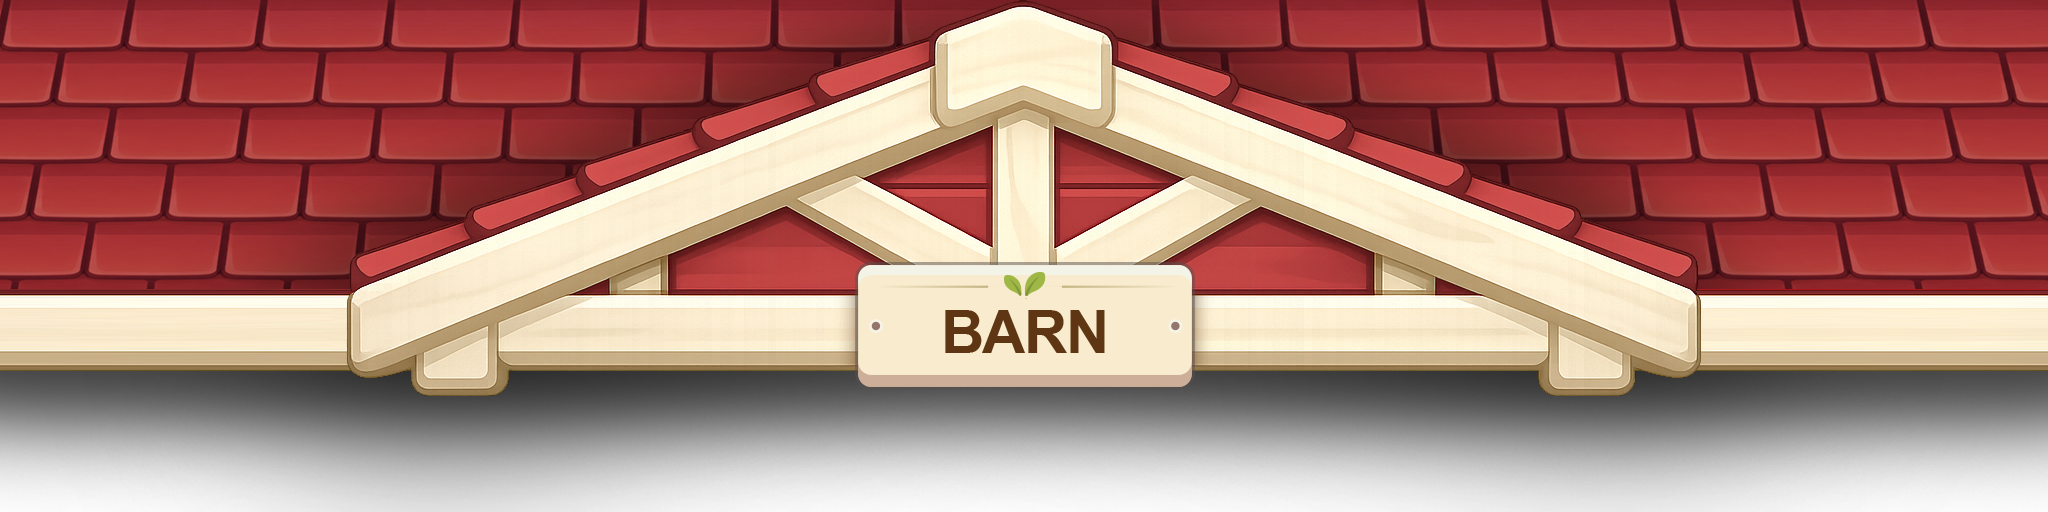
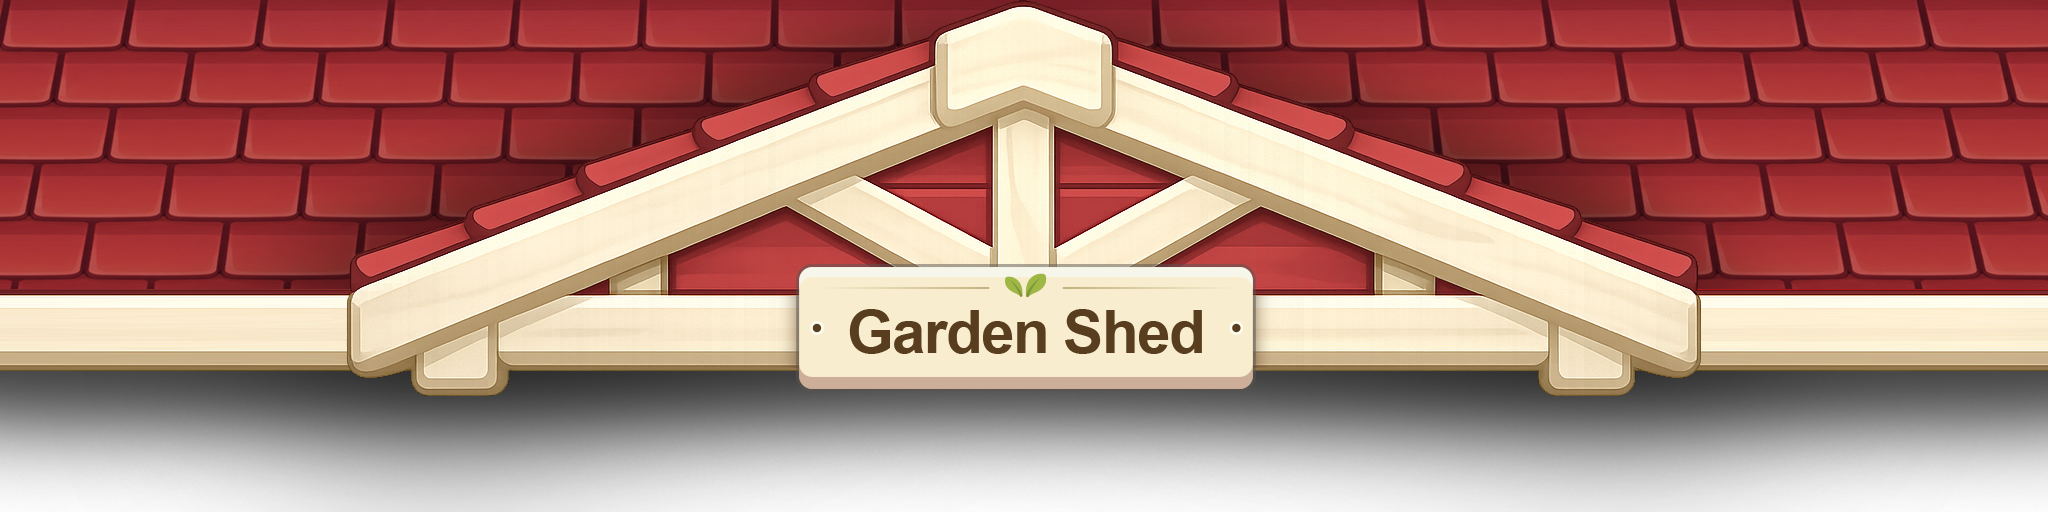
small tweaks

Changed region(s): [[0.375, 0.5, 0.625, 0.7812]]

diff --git a/App.tsx b/App.tsx
@@ -386,10 +386,10 @@ export default function App() {
 
   // Only update React state when we hit 100% or reset; progress bar is driven at 60fps via progressRef in SideAction
   useEffect(() => {
-    if (seedProductionLevel < 1) return;
+    // Auto-progress starts at 3/min even at level 0
     lastSeedProgressTimeRef.current = Date.now();
     let rafId: number;
-    const perMinute = seedProductionLevel; // 1/min per upgrade level
+    const perMinute = 3 + seedProductionLevel; // starts at 3/min (level 0), +1 per upgrade
     const percentPerMs = (perMinute * 100) / (60 * 1000); // % progress per millisecond
     const tick = () => {
       if (tapZoomRef.current) {
@@ -506,10 +506,10 @@ export default function App() {
 
   // Harvest auto-progress: driven at 60fps via harvestProgressRef for smooth updates
   useEffect(() => {
-    if (harvestSpeedLevel < 1) return;
+    // Auto-progress starts at 3/min even at level 0
     lastHarvestProgressTimeRef.current = Date.now();
     let rafId: number;
-    const perMinute = harvestSpeedLevel; // 1/min per upgrade level
+    const perMinute = 3 + harvestSpeedLevel; // starts at 3/min (level 0), +1 per upgrade
     const percentPerMs = (perMinute * 100) / (60 * 1000); // % progress per millisecond
     const tick = () => {
       if (harvestTapZoomRef.current) {
@@ -730,9 +730,9 @@ export default function App() {
 
     if (isSeedFlashing) return;
 
-    // Add +20% progress when button is green (no seeds in storage)
+    // Add +15% progress when button is green (no seeds in storage)
     const start = Math.max(0, seedProgressRef.current);
-    const totalAfterTap = start + 20;
+    const totalAfterTap = start + 15;
     
     if (totalAfterTap > 100) {
       // Tap goes past 100%: add to storage, reset to 0%, then continue with remainder
@@ -766,9 +766,9 @@ export default function App() {
     e.stopPropagation();
     if (isHarvestFlashing) return;
 
-    // Add +20 progress per tap (animated via harvestTapZoomRef)
+    // Add +15 progress per tap (animated via harvestTapZoomRef)
     const current = harvestProgressRef.current;
-    const next = Math.min(100, current + 20);
+    const next = Math.min(100, current + 15);
     harvestTapZoomRef.current = { start: current, end: next, startTime: Date.now(), duration: 100 };
     setHarvestTapZoomTrigger((t) => t + 1);
 
@@ -1524,10 +1524,10 @@ export default function App() {
                 </div>
               </div>
 
-              {/* Barn Header - overlay on top */}
+              {/* Shed Header - overlay on top */}
               <div className="absolute top-0 left-0 right-0 z-50 pointer-events-none">
                 <div className="pointer-events-auto">
-                  <PageHeader money={money} walletFlashActive={walletFlashActive} />
+                  <PageHeader money={money} walletFlashActive={walletFlashActive} plantWallet={{ unlockedCount: highestPlantEver, totalCount: 24 }} />
                 </div>
               </div>
             </div>
@@ -1673,7 +1673,7 @@ export default function App() {
               imageLevel={discoveryPopup.level}
               subtitle={getPlantData(discoveryPopup.level).name}
               description={getPlantData(discoveryPopup.level).description}
-              buttonText="Add to Barn"
+              buttonText="Add to Shed"
               showCloseButton={false}
               closeOnBackdropClick={false}
               onButtonClick={(buttonRect) => {

diff --git a/components/PageHeader.tsx b/components/PageHeader.tsx
@@ -6,6 +6,11 @@ interface PageHeaderProps {
   walletIconRef?: React.RefObject<HTMLElement | null>;
   walletFlashActive?: boolean;
   onWalletClick?: () => void;
+  /** If set, shows plant wallet instead of coin wallet */
+  plantWallet?: {
+    unlockedCount: number;
+    totalCount: number;
+  };
 }
 
 const formatMoney = (amount: number): string => {
@@ -19,7 +24,8 @@ export const PageHeader: React.FC<PageHeaderProps> = ({
   walletRef, 
   walletIconRef, 
   walletFlashActive = false,
-  onWalletClick 
+  onWalletClick,
+  plantWallet
 }) => {
   const isInteractive = !!walletRef;
 
@@ -53,6 +59,18 @@ export const PageHeader: React.FC<PageHeaderProps> = ({
               {formatMoney(money)}
             </span>
           </button>
+        ) : plantWallet ? (
+          <div className="relative flex items-center gap-1 bg-black/50 backdrop-blur-md px-2 py-1 rounded-full border-0 shadow-2xl overflow-hidden">
+            <span 
+              className="relative flex items-center justify-center text-sm leading-none text-white"
+              aria-hidden
+            >
+              🌱
+            </span>
+            <span className="relative font-black text-xs tracking-tight text-white">
+              {plantWallet.unlockedCount} / {plantWallet.totalCount}
+            </span>
+          </div>
         ) : (
           <div className="relative flex items-center gap-1 bg-black/50 backdrop-blur-md px-2 py-1 rounded-full border-0 shadow-2xl overflow-hidden">
             <div

diff --git a/components/Navbar.tsx b/components/Navbar.tsx
@@ -16,7 +16,7 @@ export const Navbar: React.FC<NavbarProps> = ({ activeScreen, onScreenChange, ba
   const items: { id: ScreenType; label: string; icon: string }[] = [
     { id: 'STORE', label: 'MARKET', icon: '/assets/icons/icon_market.png' },
     { id: 'FARM', label: 'FARM', icon: '/assets/icons/icon_farm.png' },
-    { id: 'BARN', label: 'BARN', icon: '/assets/icons/icon_barn.png' },
+    { id: 'BARN', label: 'SHED', icon: '/assets/icons/icon_barn.png' },
   ];
 
   return (
@@ -170,8 +170,8 @@ export const Navbar: React.FC<NavbarProps> = ({ activeScreen, onScreenChange, ba
                   alt={item.label}
                   className="transition-all duration-200 ease-out"
                   style={{
-                    width: isActive ? '36px' : '32px',
-                    height: isActive ? '36px' : '32px',
+width: isActive ? '34px' : '32px',
+                                    height: isActive ? '34px' : '32px',
                     filter: isActive 
                       ? 'brightness(0) saturate(100%) invert(50%) sepia(6%) saturate(500%) hue-rotate(350deg) brightness(92%) contrast(88%)'
                       : 'brightness(0) saturate(100%) invert(22%) sepia(8%) saturate(500%) hue-rotate(340deg) brightness(97%) contrast(90%)',

diff --git a/components/UpgradeList.tsx b/components/UpgradeList.tsx
@@ -172,7 +172,7 @@ const SEEDS_VALUE_GREEN = '#6a994e';
 const getSeedsUpgradeValue = (upgradeId: string, level: number, seedsState?: SeedsState): string | null => {
   switch (upgradeId) {
     case 'seed_production':
-      return `${level}/min`;
+      return `${3 + level}/min`;
     case 'seed_quality':
       // Display quality % within current tier (0-90%)
       const qualityPercent = seedsState ? getSeedQualityPercent(seedsState) : (level % 10) * 10;
@@ -210,7 +210,7 @@ const getCropsUpgradeValue = (upgradeId: string, level: number): string | null =
 const getHarvestUpgradeValue = (upgradeId: string, level: number): string | null => {
   switch (upgradeId) {
     case 'harvest_speed':
-      return `${level}/min`;
+      return `${3 + level}/min`;
     case 'crop_value':
       return `${(1.0 + 0.1 * level).toFixed(1)}x`;
     case 'harvest_boost':
